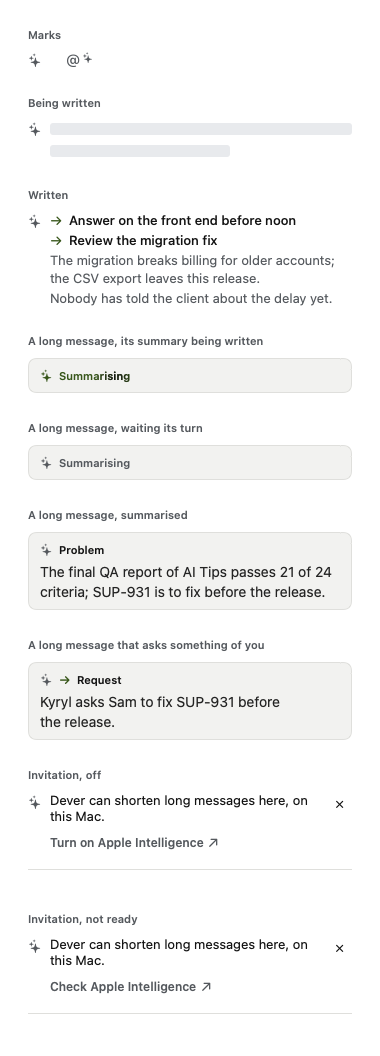
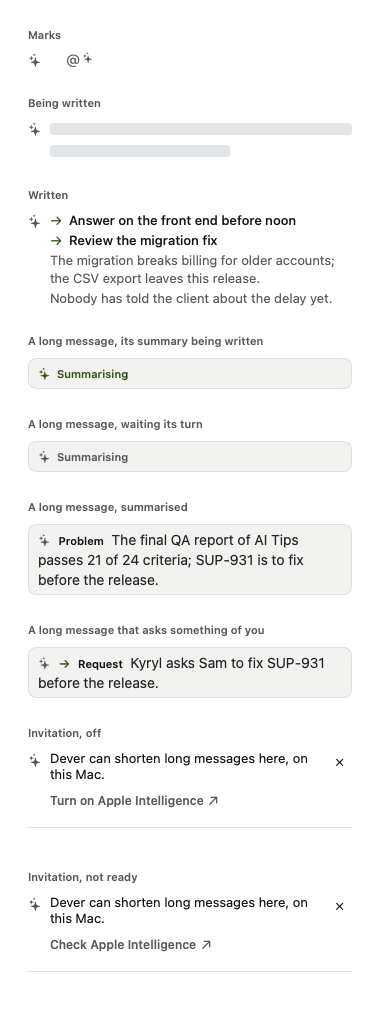
Long messages: the kind at the head of the sentence, smaller margins
A summary took about 80 pt for two lines, the kind on a line of its own: too much room for
something meant to save some. The sparkle, the kind and the sentence are one text; two lines
take about 52 pt.

diff --git a/Sources/Dever/Views/Generated.swift b/Sources/Dever/Views/Generated.swift
@@ -115,51 +115,52 @@ struct SummarisedMessage: View {
                                                        removal: .opacity.animation(Motion.exit))
 
     var body: some View {
-        VStack(alignment: .leading, spacing: 6) {
-            // One head at a time: the kind takes the place of "Summarising".
-            ZStack(alignment: .leading) {
-                if writing {
-                    HStack(spacing: 6) {
-                        Image(systemName: "sparkles").font(.system(size: 11, weight: .semibold))
-                        Text("Summarising").font(.system(size: 11, weight: .semibold))
-                    }
-                    .modifier(Glint(on: active))
-                    .transition(Self.swap)
-                } else {
-                    HStack(spacing: 6) {
-                        Image(systemName: "sparkles").font(.system(size: 11, weight: .semibold))
-                            .foregroundStyle(Soot.muted).help(GeneratedMark.meaning)
-                        if asked {
-                            Image(systemName: "arrow.right").font(.system(size: 10, weight: .bold))
-                                .foregroundStyle(Soot.lime).help("Asked of you")
-                        }
-                        Text(kind).font(.system(size: 11, weight: .semibold))
-                            .foregroundStyle(pressing ? Soot.ink : Soot.muted)
-                    }
-                    .transition(Self.swap)
-                }
-            }
+        // One or the other: "Summarising" on its line, then the kind and the sentence as one
+        // text, the kind at the head of the first line. No line of its own for the kind: a
+        // summary must take less room than the message it stands for.
+        ZStack(alignment: .topLeading) {
             if let sentence {
-                Text(sentence)
-                    .font(.system(size: 14)).foregroundStyle(Soot.ink.opacity(0.92))
+                written(sentence)
+                    .font(.system(size: 14))
                     .lineSpacing(3)
                     .fixedSize(horizontal: false, vertical: true)
                     .textSelection(.enabled)
                     .id(sentence)
                     // Revealed by the block as it grows; it does not travel.
-                    .transition(.opacity.animation(Motion.ui.delay(0.12)))
+                    .transition(Self.swap)
+            } else {
+                HStack(spacing: 6) {
+                    Image(systemName: "sparkles").font(.system(size: 11, weight: .semibold))
+                    Text("Summarising").font(.system(size: 11, weight: .semibold))
+                }
+                .frame(minHeight: 17)
+                .modifier(Glint(on: active))
+                .transition(Self.swap)
             }
         }
-        .padding(.horizontal, 12).padding(.vertical, 10)
+        .padding(.horizontal, 10).padding(.vertical, 7)
         .frame(maxWidth: .infinity, alignment: .leading)
         .background(Soot.ground, in: RoundedRectangle(cornerRadius: 8))
         .overlay(RoundedRectangle(cornerRadius: 8).strokeBorder(Soot.line))
         .clipShape(RoundedRectangle(cornerRadius: 8))
+        .help(sentence == nil ? "" : GeneratedMark.meaning)
         .dissolveWhenReduced(value: sentence)
-        .dissolveWhenReduced(value: writing)
         .accessibilityElement(children: .ignore)
         .accessibilityLabel(spoken)
         .accessibilityHint(sentence == nil ? "" : GeneratedMark.meaning)
+    }
+
+    /// The sparkle, the arrow when it is asked of the reader, the kind, then the sentence.
+    private func written(_ sentence: String) -> Text {
+        let small = Font.system(size: 11, weight: .semibold)
+        var head = Text(Image(systemName: "sparkles")).font(small).foregroundColor(Soot.muted) + Text("  ")
+        if asked {
+            head = head + Text(Image(systemName: "arrow.right")).font(.system(size: 10, weight: .bold)).foregroundColor(Soot.lime) + Text("  ")
+        }
+        return head
+            + Text(kind).font(small).foregroundColor(pressing ? Soot.ink : Soot.muted)
+            + Text("  ")
+            + Text(sentence).foregroundColor(Soot.ink.opacity(0.92))
     }
 
     /// What it is first, the caveat last (the hint): "Summary, Request, asked of you: …".

diff --git a/docs/on-device-ai.md b/docs/on-device-ai.md
@@ -284,7 +284,10 @@ names them and, under the first, one generated sentence.
 - **Never over what is being read:** a message opened with "Show more" before its summary was wanted
   stays open, with "Show summary" under it. An edited message keeps its old sentence under
   "Summarising" until the new one lands.
-- **What:** the kind of message at the head of the block and one short sentence of at most 14 words that
+- **Compact:** the sparkle, the kind and the sentence are one text, the kind at the head of the first
+  line, in a block with small margins: two lines take about 52 pt. The kind had a line of its own at
+  first (about 80 pt), which the user found took too much room for something meant to save some.
+- **What:** the kind of message at the head of the sentence and one short sentence of at most 14 words that
   stands on its own: who or what it is about, then what is asked, wrong, decided or announced. Names,
   numbers and ticket identifiers kept. Guided generation; the kind is chosen after the sentence.
 - **Asked of the user:** a lime arrow before the kind when the message is a Request or a Question and

diff --git a/docs/reviews/message-summaries.md b/docs/reviews/message-summaries.md
@@ -128,5 +128,9 @@ another in a still frame reads as nothing happening. Two changes, both theirs:
   summarised again: removed when read, after the "Quiet" days of Settings, or with the switch. This
   lifts "memory only" for this one kind of generated text (on-device-ai.md, rule 3).
 
+- **Shorter and smaller,** after more use: the sentence is 14 words and 120 characters at most (20 and
+  180 before), and the kind sits at the head of the sentence instead of on a line of its own, with
+  smaller margins: a two-line summary takes about 52 pt, from about 80.
+
 Not verified: a real rail with real messages after these changes, the real model's pace, the glint
 and the growth in movement (captures are stills), VoiceOver by ear, and the toggle's movement.
